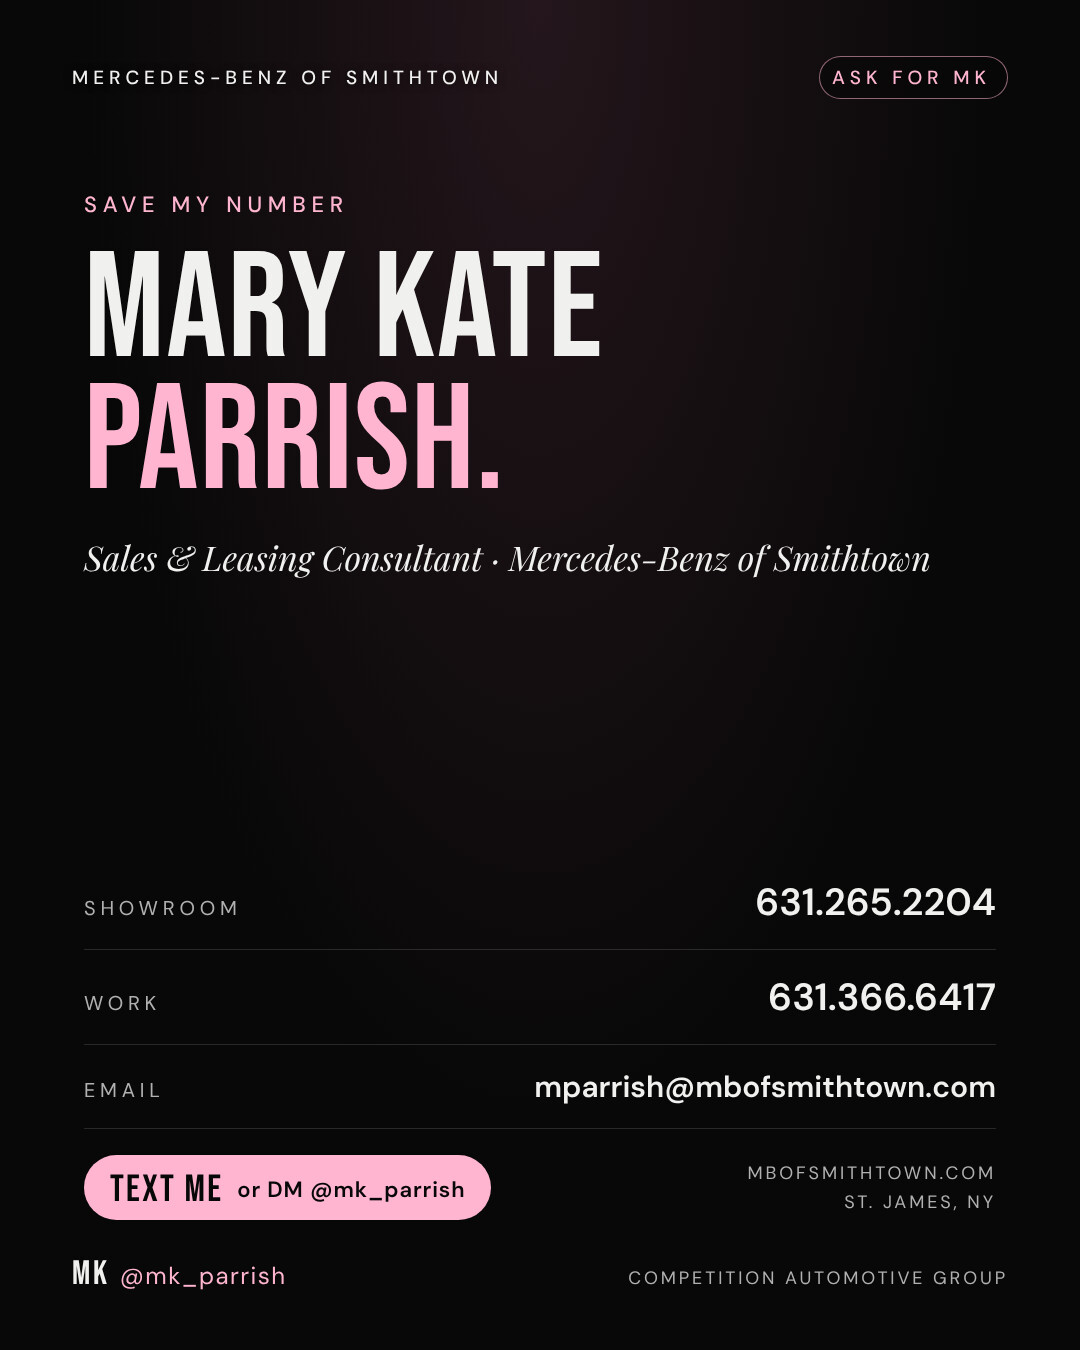
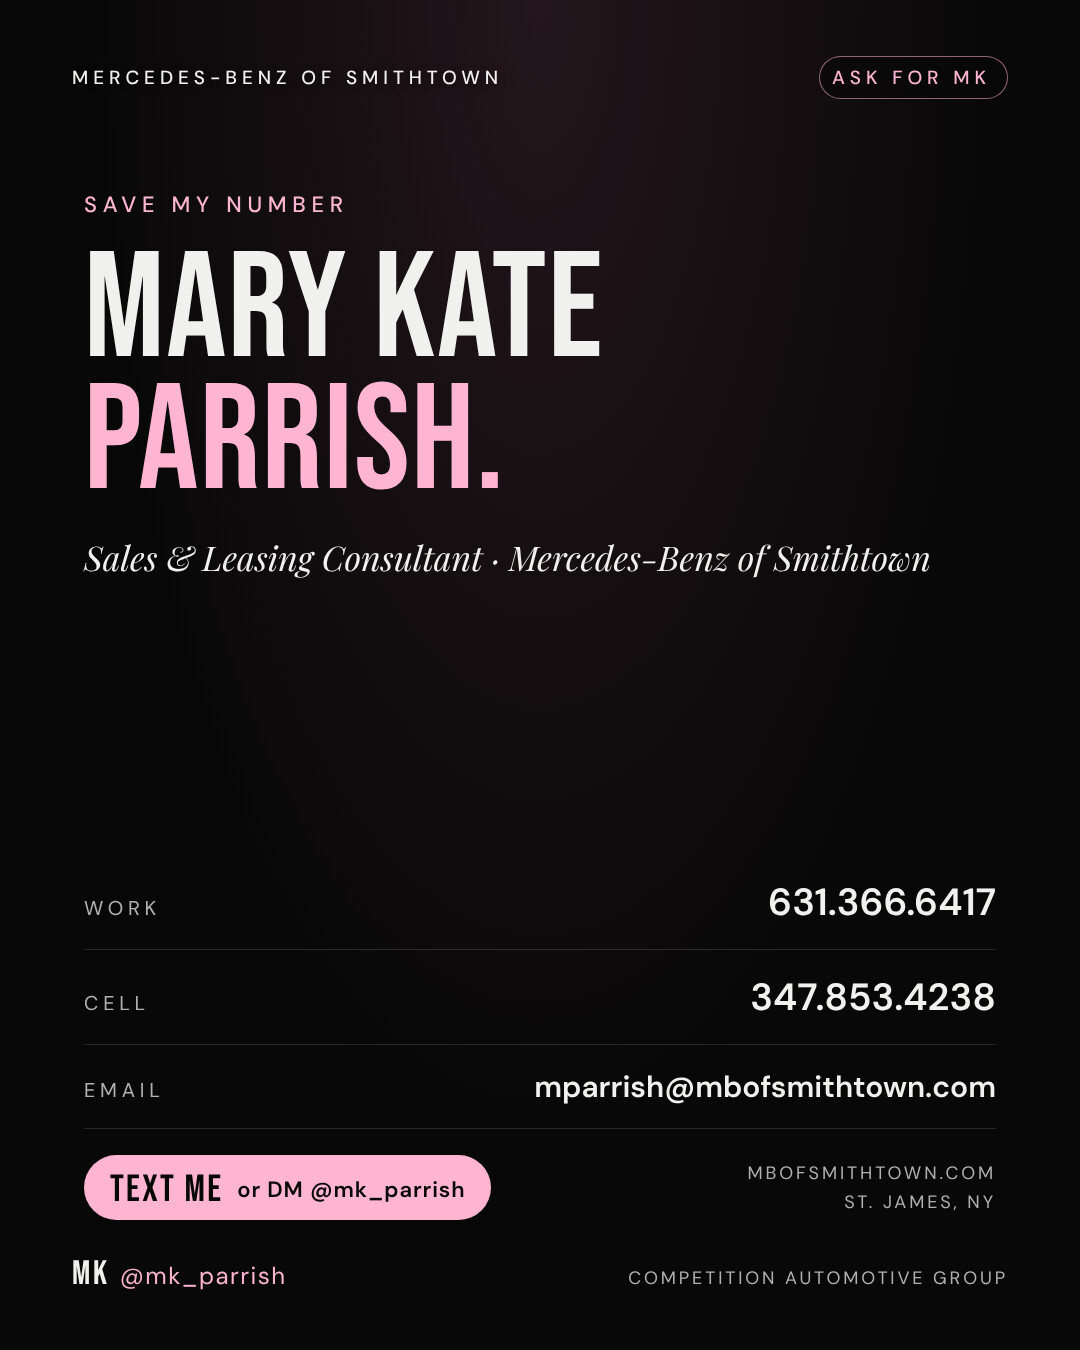
List only MK's work line and cell on the contact card and test-drive page
Claude-Session: https://claude.ai/code/session_01DRXa5dCoPhW2hCC3wJoF2T

diff --git a/app/test-drive/TestDriveForm.tsx b/app/test-drive/TestDriveForm.tsx
@@ -4,7 +4,9 @@ import { useMemo, useState } from "react";
 
 // MK's Mercedes-Benz of Smithtown contact details: her work line takes the texts.
 const WORK = "+16313666417";
-const SHOWROOM = "631.265.2204";
+const WORK_DISPLAY = "631.366.6417";
+const CELL = "+13478534238";
+const CELL_DISPLAY = "347.853.4238";
 const EMAIL = "mparrish@mbofsmithtown.com";
 
 const INTERESTS = [
@@ -174,7 +176,9 @@ export default function TestDriveForm() {
       </div>
       <p className="font-body text-xs leading-6 text-ash">
         Both buttons open a message to me with your details filled in. Just hit send and I&apos;ll confirm your time. Rather
-        call? The showroom is <a href={`tel:+1${SHOWROOM.replace(/\D/g, "")}`} className="text-pearl underline underline-offset-4">{SHOWROOM}</a>.
+        call? My work line is{" "}
+        <a href={`tel:${WORK}`} className="text-pearl underline underline-offset-4">{WORK_DISPLAY}</a> and my cell is{" "}
+        <a href={`tel:${CELL}`} className="text-pearl underline underline-offset-4">{CELL_DISPLAY}</a>.
       </p>
     </form>
   );

diff --git a/app/test-drive/page.tsx b/app/test-drive/page.tsx
@@ -80,7 +80,8 @@ export default function TestDrivePage() {
             630 Middle Country Road, St. James, NY 11780
           </a>
           <br />
-          Showroom <a href="tel:+16312652204" className="text-pearl hover:text-petal">631.265.2204</a> ·{" "}
+          Work <a href="tel:+16313666417" className="text-pearl hover:text-petal">631.366.6417</a> · Cell{" "}
+          <a href="tel:+13478534238" className="text-pearl hover:text-petal">347.853.4238</a> ·{" "}
           <a href="https://www.instagram.com/mk_parrish" target="_blank" rel="noopener noreferrer" className="text-petal">
             @mk_parrish
           </a>

diff --git a/marketing/mercedes-smithtown/captions-vol3.md b/marketing/mercedes-smithtown/captions-vol3.md
@@ -21,8 +21,8 @@ Before posting, check these:
 - **Model names.** Check model names against the window stickers. The SUV in
   `10-interior-check` is captioned "Mercedes-Benz SUV" because the clip
   doesn't show which model it is.
-- **Phone numbers.** `21-save-my-number` and the story show the showroom
-  number, your work line (631.366.6417) and email.
+- **Phone numbers.** `21-save-my-number` and the story show your work line
+  (631.366.6417), your cell (347.853.4238) and email.
 - **LIBI coupon.** `23-libi-coupon` is built but **not scheduled**. Confirm
   the store is happy to promote the $1,500 coupon publicly. Also note the
   printed expiry reads 11/31/2026, and November has 30 days.
